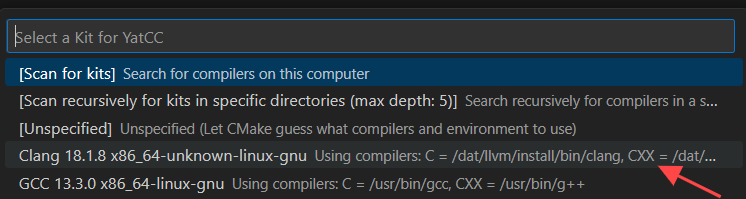
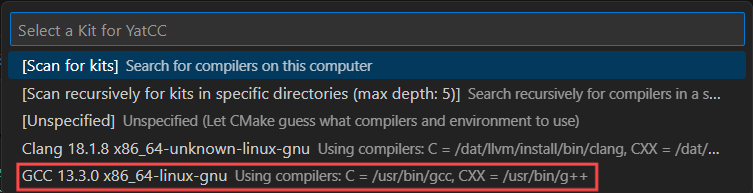
Fix some typos

diff --git a/docs/task0_doc/task0.md b/docs/task0_doc/task0.md
@@ -5,7 +5,7 @@
 
 ![showlog](../images/howtoconf_1.png)
 
-此时vscode会弹出如下窗口要求你对编译此项目的编译器进行选择，请大家选择我们提前安装好的Clang即可(如果同学们之前选择过编译器这里就不会弹出窗口)。
+此时vscode会弹出如下窗口要求你对编译此项目的编译器进行选择，请大家选择我们提前安装好的GCC即可(如果同学们之前选择过编译器这里就不会弹出窗口)。
 
 ![showlog](../images/howtoconf_2.png)
 

diff --git a/docs/introduction/environment.md b/docs/introduction/environment.md
@@ -150,7 +150,7 @@ systemctl start docker   #启动 docker 服务
 
 ![showok1](../images/showok1.jpg)
 
-如果顺利的话，vscode 的顶部还会弹出如图所示的窗口来提示同学们选择项目所示的编译器，请同学们选择箭头所示的 clang 18 即可。
+如果顺利的话，vscode 的顶部还会弹出如图所示的窗口来提示同学们选择项目所示的编译器，请同学们选择箭头所示的 GCC 13 即可。
 
 ![showok2](../images/howtoconf_2.png)
 
